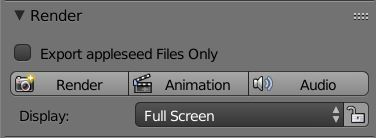
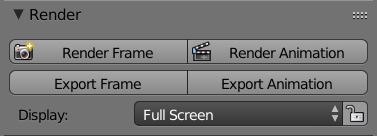
Documentation update

diff --git a/docs/conf.py b/docs/conf.py
@@ -28,9 +28,9 @@ copyright = '2018, The appleseedhq Organization'
 author = 'The appleseedhq Organization'
 
 # The short X.Y version
-version = '0.7'
+version = '0.8'
 # The full version, including alpha/beta/rc tags
-release = 'blenderseed Manual 0.7 Beta'
+release = 'blenderseed Manual 0.8 Beta'
 
 
 # -- General configuration ---------------------------------------------------
@@ -122,7 +122,7 @@ html_theme_options = {
 
     # Global TOC depth for "site" navbar tab. (Default: 1)
     # Switching to -1 shows all levels.
-    'globaltoc_depth': 2,
+    'globaltoc_depth': -1,
 
     # Include hidden TOCs in Site navbar?
     #
@@ -144,7 +144,7 @@ html_theme_options = {
 
     # Location of link to source.
     # Options are "nav" (default), "footer" or anything else to exclude.
-    'source_link_position': "nav",
+    'source_link_position': "footer",
 
     # Bootswatch (http://bootswatch.com/) theme.
     #

diff --git a/docs/installation.rst b/docs/installation.rst
@@ -1,8 +1,10 @@
 Installation
-++++++++++++
+============
 
 Download
-	Download the .zip file of the latest release for your platform from the releases page. Note that only Blender 2.79 and later versions are supported.
+	Download the .zip file of the latest `release <https://github.com/appleseedhq/blenderseed/releases>`_ for your platform. [#f1]_ Note that as of 0.8 you must use Blender 2.79 or higher.
+
+	*Blender 2.8 is not yet supported*
 
 Install
 	From within Blender, open the User Preferences (usual hotkey is Ctrl+Alt+U) and navigate to the Addons tab. Click the button that says "Install From File". Using the file dialog, select the .zip file you downloaded, and click "Install From File..."
@@ -11,20 +13,22 @@ Install
 
 	Extract the blenderseed folder from the .zip file. Move or copy the blenderseed folder to your Blender installation's /scripts/addons directory. The addon relies on being able to find the blenderseed folder in one of a few conspicuous places, so be sure to install the folder under addons or addons_contrib.
 
-	Note: The addon depends on the folder being named correctly as blenderseed.  If you download the latest master branch, the folder will have a *-master* suffix that needs to be removed.
-
 Configure
 	If the addon was installed successfully, you will see it among your addons under the "Render" category. Enable the addon, and click the small triangle to the left of the words "Render: appleseed". You will see a text field with a file path selector next to the words "appleseed binary directory". Use the file path selector to point the addon to your appleseed installation's bin directory (the directory containing appleseed.cli.exe and appleseed.studio.exe).
 
+|
+
 	.. image:: /_static/screenshots/blenderseed-addon-installation.png
-
-
 
 	Blender User Preferences Dialog
 
-	
-
+|
 
 	Save your user preferences.
 
 	Select "appleseed" from the render dropdown selector.
+
+Footnotes
+---------
+
+.. [#f1] If you want access to cutting edge features, you can download the latest master branch.  Be aware that features may not be stable or complete and new features may require an up to date build of appleseed.  If you download the latest Github master branch, the folder will have a *-master* suffix that needs to be removed.

diff --git a/docs/panels/render/lighting.rst b/docs/panels/render/lighting.rst
@@ -1,2 +1,49 @@
 Lighting
 ========
+
+- Engine:
+	- This sets the lighting engine used during the render.
+- Light Sampler:
+	- This sets how lights in the scene are sampled.
+
+Path Tracing Engine
+-------------------
+
+.. image:: /_static/screenshots/render_panels/lighting.JPG
+
+|
+
+- Next Event Estimation:
+	- Whether or not light sources are directly sampled in addition to being hit by indirect rays.
+- Direct Lighting:
+	- Whether or not discreet light sources (point, spotlight and Sun) are directly sampled at each surface hit point.
+- Low Light Threshold:
+	- This prevents shadow rays from being traced to lights that do not contribute significant illumination to the surface hit point.  Higher numbers can lead to a decrease in lighting quality but an increase in convergence speed.
+- Image Based Lighting:
+	- Whether or not an environment map can contribute lighting to the scene.
+- Caustics:
+	- Whether or not caustic effects are rendered.
+- Bounces:
+	- Global: Sets a maximum number of bounces for a light ray.
+	- Diffuse: Sets a maximum number of diffuse bounces a ray can make.
+	- Glossy: Sets the number of glossy bounces a ray can make.
+	- Specular: Sets the number of specular bounces a ray can make.
+	- Volume: Sets the number of bounces a ray can make inside a volume.
+	- Max Ray Intensity: Sets the maximum brightness an indirect ray can contribute to the scene.  Lowering this can remove fireflies at the expense of accurate lighting.
+- Russian Roulette Start Bounce:
+	- Sets the bounce after which Russian Roulette will be used to terminate rays that are not expected to contribute much to the final image.  Lowering this can increase noise but speed up rendering.
+- Volume Distance Samples: 
+	- ToDo
+- Optimize for Lights Outside Volumes
+	- This can help reduce noise when light sources are not inside a volume.
+- Mesh Light Multiplier:
+	- This is a global multiplier for the intensity of any mesh lights in the scene.
+- Export Mesh Lights:
+	- Whether or not to export mesh lights.
+
+SPPM Engine
+-----------
+
+.. image:: /_static/screenshots/render_panels/lighting_2.JPG
+
+|

diff --git a/docs/panels/render/render.rst b/docs/panels/render/render.rst
@@ -5,11 +5,13 @@ Render
 
 |
 
-- Export appleseed Files Only
-	- This options tells blenderseed to create the scene files for rendering and export the geometry only.  The rendering process will not be triggered.  This allows you to render the scene at a later time using the appleseed command line or appleseed.studio.
-- Render
-	- This button triggers the exporting process, and then the actual render if the export only button is not selected.
-- Animation
-	- Render a sequential output of frames (determined by the start and end frame settings).
-- Display
-	- This determines how the Blender desktop will change to accomodate the rendered image.
+- Render Frame:
+	- Exports and renders the current Blender frame.
+- Render Animation:
+	- Exports and renders all frames in between the start and end points defined in the dimensions panel.
+- Export Frame:
+	- Exports the scene file for the current frame.
+- Export Animation:
+	- Exports the scene files for each frame in between the start and end points defined in the dimensions panel.
+- Display:
+	- This defines how the in-progress render is displayed within Blender.

diff --git a/docs/features.rst b/docs/features.rst
@@ -7,9 +7,8 @@ Supported Features
 	* Pinhole, thin lens (supports physically correct depth of field), orthographic and spherical camera models
 	* Camera, transformation and deformation motion blur
 	* Export of Blender geometry
-	* Materials can use Blender's node editor
-	* Layered material editor
-	* Render results directly into Blender or export scene files for later rendering (animations are currently unsupported for scene export)
+	* OSL shading
+	* Render results directly into Blender or export scene files (including animations) for later rendering
 	* BSDF materials
 	* Normal / bump mapping
 	* Alpha mapping (object and material based)
@@ -24,5 +23,4 @@ Unsupported Features
 
 	* Arbitrary segments for motion blur
 	* Hair export 
-	* OSL shading (*0.8 target*)
 	* Archive assemblies and instances (*1.0 target*)

diff --git a/docs/panels/world/sss_sets.rst b/docs/panels/world/sss_sets.rst
@@ -1,2 +1,21 @@
 SSS Sets
 ========
+
+.. image:: /_static/screenshots/world_panel/sss_sets.JPG
+
+|
+
+SSS sets are a way for appleseed to treat separate meshes as a single object when doing SSS calculations.  This can prevent artifacts where meshes intersect.
+
+.. image:: /_static/screenshots/world_panel/sss_sets_example.png
+
+Objects on the right are in a common SSS set.  Objects on the left are not.
+
+|
+
+- Add Set
+	- This adds an SSS set to the current scene.
+- Remove Set
+	- This removes the currently selected set from the scene.
+- SSS Set Name
+	- This allows you to set the name of the SSS set.

diff --git a/docs/index.rst b/docs/index.rst
@@ -8,9 +8,11 @@ Welcome to blenderseed's documentation!
 
 	blenderseed is a plugin that allows Blender (version 2.79 or higher) to use `appleseed <https://appleseedhq.net/>`_ to produce imagery.  appleseed is a modern, open source, fully programmable path tracer that integrates several cutting edge features into a robust rendering package that is capable of rendering highly complex objects with dozens (or hundreds) of high resolution texures with deformation blur and depth of field.
 
+|
+
 .. toctree::
    :maxdepth: 2
-   :caption: Contents:
+   :hidden:
 
    features
    installation

diff --git a/docs/about.rst b/docs/about.rst
@@ -1,5 +1,5 @@
 About blenderseed
-+++++++++++++++++
+=================
 
 The orginal appleseed integration into blender was written by François Beaune when appleseed was in an alpha state. It was a primitive plugin, matching an equally primitive (at the time) renderer.  Over the next several years appleseed grew and improved in leaps and bounds, and blenderseed has grown along with it thanks to the dedication and efforts of many volunteer authors:
 

diff --git a/docs/panels/world/environment.rst b/docs/panels/world/environment.rst
@@ -1,2 +1,9 @@
 Environment
 ===========
+
+.. image:: /_static/screenshots/world_panel/environment.JPG
+
+|
+
+- Type:
+	- This selects the type of environment that will surround the scene.  Options include a constant color, a physically correct sky light, an HDRI environment map, and several other options.  Properties for each type are covered in the shader reference section.

diff --git a/docs/reference.rst b/docs/reference.rst
@@ -1,6 +1,8 @@
-Panel Reference
-===============
+Reference
+=========
 
+Panels
+------
 .. toctree::
    :maxdepth: 2
 
@@ -10,3 +12,10 @@ Panel Reference
    panels/material/material_panel
    panels/texture/texture_panel
    panels/node_editor
+
+OSL
+---
+.. toctree::
+	:maxdepth: 2
+
+	osl/osl

diff --git a/docs/panels/render/denoiser.rst b/docs/panels/render/denoiser.rst
@@ -1,2 +1,7 @@
 Denoiser
 ========
+
+.. image:: /_static/screenshots/render_panels/denoiser.JPG
+
+|
+

diff --git a/docs/osl/osl.rst b/docs/osl/osl.rst
@@ -1,0 +1,2 @@
+Open Shading Language
+=====================
